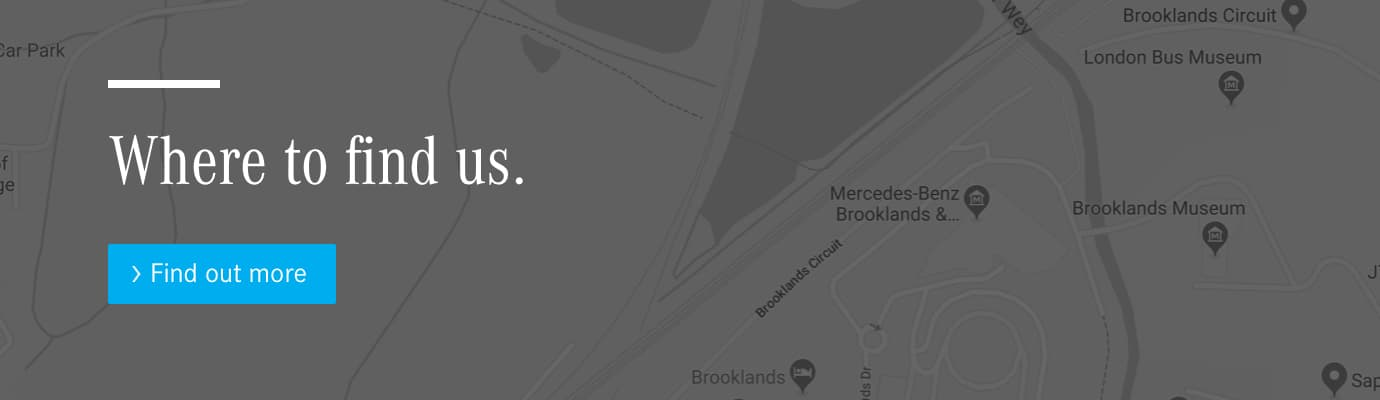
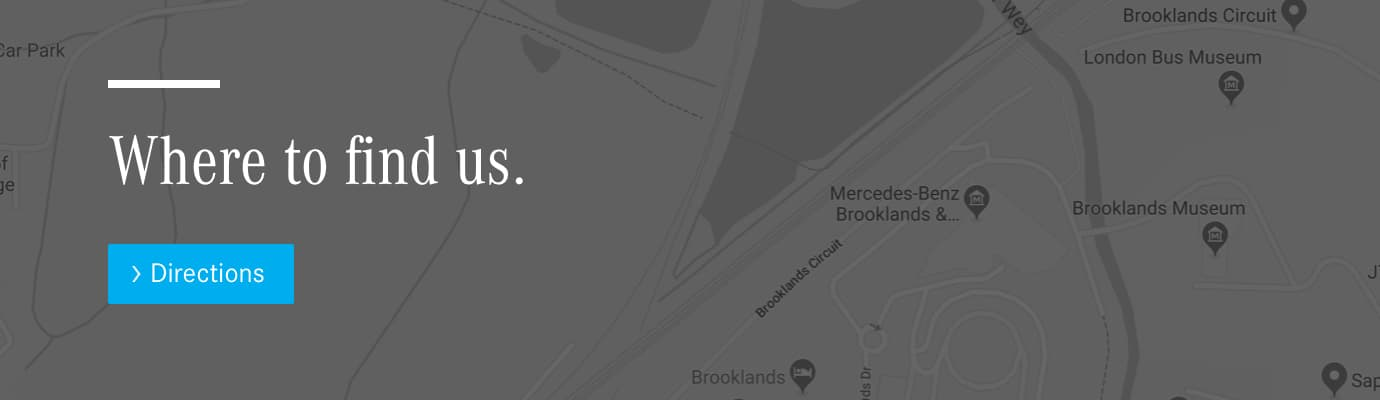
update button names

Changed region(s): [[0.0935, 0.6, 0.2493, 0.78]]

diff --git a/complete/mbw/Feb Half Term Email/index.html b/complete/mbw/Feb Half Term Email/index.html
@@ -412,7 +412,7 @@
                               <tr>
                                 <td class="btn-container" style="background-color: #00ADEF; text-align: center;padding: 10px 12px; border-radius: 1px;">
                                   <a href="https://www.mercedes-benzworld.co.uk/whats-on/" style="font: 14px/14px sans-serif;   color: #ffffff; text-align: center; text-decoration: none; display: block; ">
-                                    <!--[if mso]>&nbsp;<![endif]--> <img src="images/arrow@2x.png" role="presentation" alt="" width="5" height="8" border="0">&nbsp;Book now
+                                    <!--[if mso]>&nbsp;<![endif]--> <img src="images/arrow@2x.png" role="presentation" alt="" width="5" height="8" border="0">&nbsp;Find out more
                                     <!--[if mso]>&nbsp;<![endif]-->
                                   </a>
                                 </td>
@@ -501,7 +501,7 @@
                                               <tr>
                                                 <td class="btn-container" style="background-color: #00ADEF; text-align: center;padding: 10px 12px; border-radius: 1px;">
                                                   <a href="https://www.mercedes-benzworld.co.uk/whats-on/" style="font: 14px/14px sans-serif; color: #ffffff; text-align: center; text-decoration: none; display: block;">
-                                                    <!--[if mso]>&nbsp;<![endif]--> <img src="images/arrow@2x.png" role="presentation" alt="" width="5" height="8" border="0">&nbsp;Book now
+                                                    <!--[if mso]>&nbsp;<![endif]--> <img src="images/arrow@2x.png" role="presentation" alt="" width="5" height="8" border="0">&nbsp;Find out more
                                                     <!--[if mso]>&nbsp;<![endif]-->
                                                   </a>
                                                 </td>
@@ -603,7 +603,7 @@
                                               <tr>
                                                 <td class="btn-container" style="background-color: #00ADEF; text-align: center;padding: 10px 12px; border-radius: 1px;">
                                                   <a href="https://www.mercedes-benzworld.co.uk/whats-on/" style="font: 14px/14px sans-serif; color: #ffffff; text-align: center; text-decoration: none; display: block;">
-                                                    <!--[if mso]>&nbsp;<![endif]--> <img src="images/arrow@2x.png" role="presentation" alt="" width="5" height="8" border="0">&nbsp;Book now
+                                                    <!--[if mso]>&nbsp;<![endif]--> <img src="images/arrow@2x.png" role="presentation" alt="" width="5" height="8" border="0">&nbsp;Find out more
                                                     <!--[if mso]>&nbsp;<![endif]-->
                                                   </a>
                                                 </td>
@@ -709,7 +709,7 @@
                                               <tr>
                                                 <td class="btn-container" style="background-color: #00ADEF; text-align: center;padding: 10px 12px; border-radius: 1px;">
                                                   <a href="https://www.mercedes-benzworld.co.uk/whats-on/" style="font: 14px/14px sans-serif; color: #ffffff; text-align: center; text-decoration: none; display: block;">
-                                                    <!--[if mso]>&nbsp;<![endif]--> <img src="images/arrow@2x.png" role="presentation" alt="" width="5" height="8" border="0">&nbsp;Book now
+                                                    <!--[if mso]>&nbsp;<![endif]--> <img src="images/arrow@2x.png" role="presentation" alt="" width="5" height="8" border="0">&nbsp;Find out more
                                                     <!--[if mso]>&nbsp;<![endif]-->
                                                   </a>
                                                 </td>
